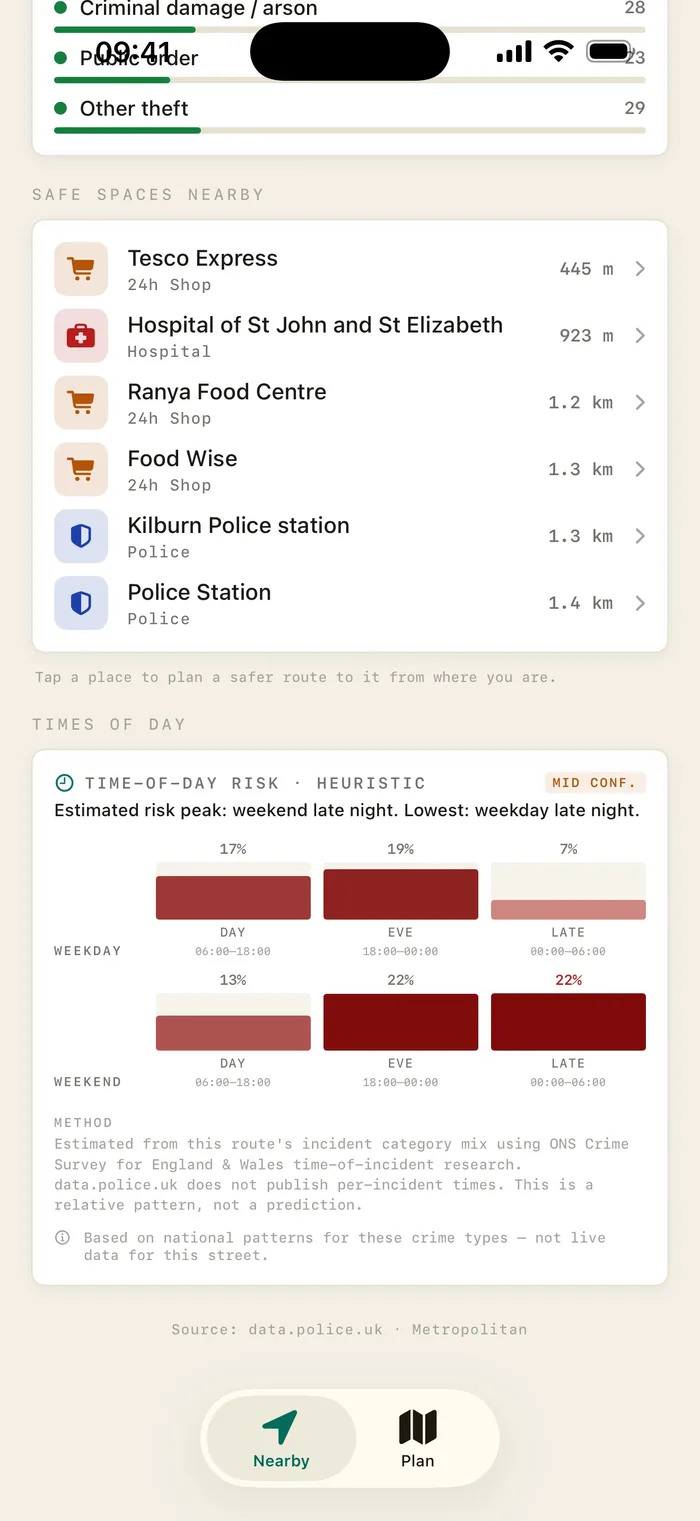
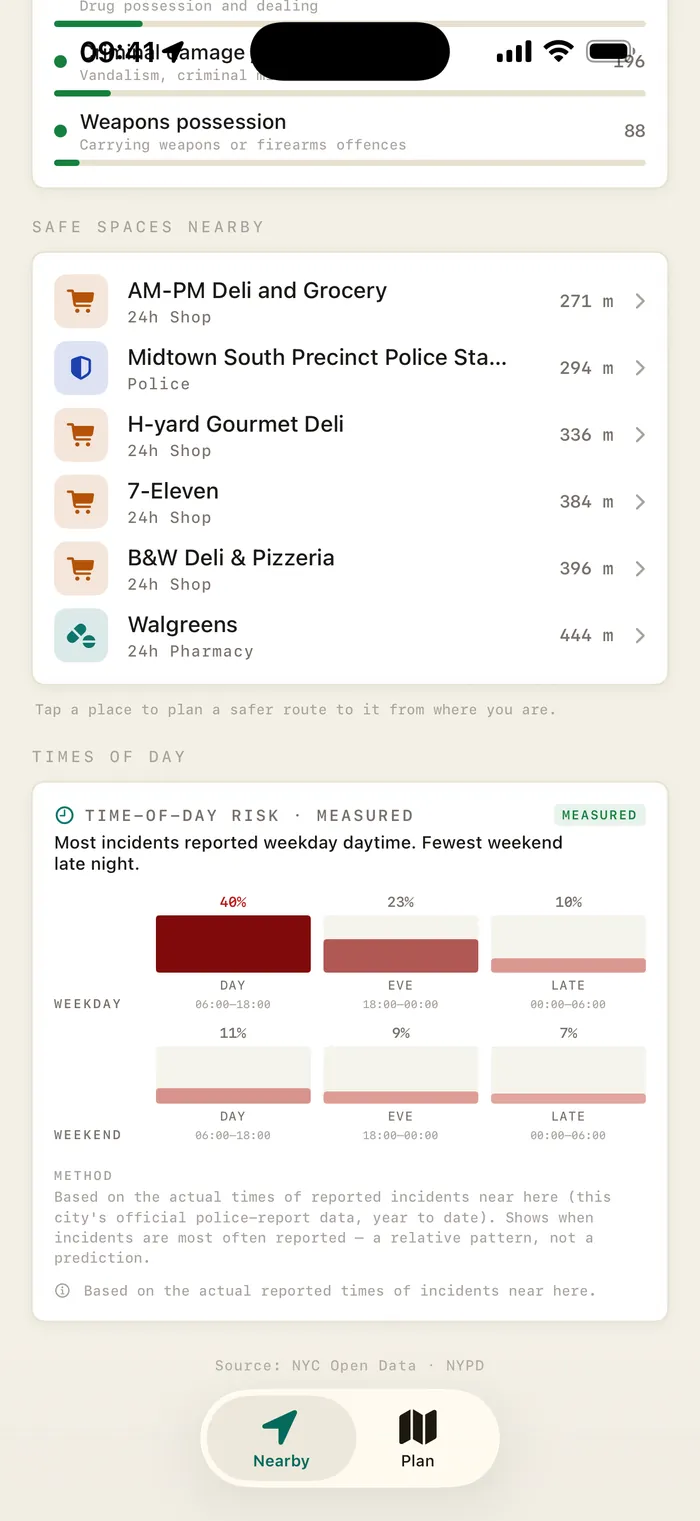
Website: refresh iPhone screenshots with current New York captures
Replaced 6 phone screenshots (scoring/hero, nearby-area, nearby-spaces, route-plain, widget-iphone, help-nearby) with fresh NYC/NYPD captures from the current build (resized to 700px webp), and updated the matching alt text + figcaptions (LONDON->NEW YORK, 41/100->15/100, 6,997->9,345 incidents). iPad/Watch/share/strut-safe images are unchanged (no new captures).

Changed region(s): [[0.03, 0.0, 0.96, 0.8961], [0.93, 0.4944, 0.96, 0.5253], [0.9, 0.2163, 0.93, 0.2472]]

diff --git a/index.html b/index.html
@@ -432,8 +432,8 @@
 
       <div class="hero-fig reveal" style="--i:3">
         <figure class="figure">
-          <img src="assets/scoring.webp" alt="SafeRoute showing a scored walking route from Maida Vale to Soho over a live crime heatmap, with a 41 out of 100 safety score and crime breakdown" width="700" height="1521" fetchpriority="high">
-          <figcaption class="figcap"><span>FIG.01 — SCORED ROUTE</span><span>LONDON</span></figcaption>
+          <img src="assets/scoring.webp" alt="SafeRoute showing a recommended walking route in New York scored 15 out of 100 for safety over a live crime heatmap, with a crime category breakdown and how well-lit it is" width="700" height="1521" fetchpriority="high">
+          <figcaption class="figcap"><span>FIG.01 — SCORED ROUTE</span><span>NEW YORK</span></figcaption>
         </figure>
       </div>
     </div>
@@ -467,11 +467,11 @@
       <div class="feat-media reveal">
         <div class="duo">
           <figure class="figure">
-            <img src="assets/nearby-area.webp" alt="SafeRoute Nearby tab showing a 30 out of 100 area safety score for the City of Westminster, a crime heatmap and what's reported nearby" loading="lazy" width="700" height="1521">
+            <img src="assets/nearby-area.webp" alt="SafeRoute Nearby tab showing a 16 out of 100 area safety score for Columbus Ave in New York, a crime heatmap and what's reported nearby" loading="lazy" width="700" height="1521">
             <figcaption class="figcap"><span>NEARBY — AREA</span></figcaption>
           </figure>
           <figure class="figure">
-            <img src="assets/nearby-spaces.webp" alt="SafeRoute Nearby tab showing safe spaces nearby — 24-hour shops, a hospital and police stations — with a time-of-day risk chart" loading="lazy" width="700" height="1521">
+            <img src="assets/nearby-spaces.webp" alt="SafeRoute Nearby tab showing safe spaces nearby — 24-hour delis, a pharmacy and a police precinct in New York — with a time-of-day risk chart" loading="lazy" width="700" height="1521">
             <figcaption class="figcap"><span>NEARBY — SAFE SPACES</span></figcaption>
           </figure>
         </div>
@@ -553,8 +553,8 @@
     <div class="feat">
       <div class="feat-media reveal">
         <figure class="figure">
-          <img src="assets/scoring.webp" alt="SafeRoute recommended route showing a 41 out of 100 safety score, a crime category breakdown within 150m, and time-of-day risk" loading="lazy" width="700" height="1521">
-          <figcaption class="figcap"><span>FIG.02 — SAFETY SCORE</span><span>41 / 100</span></figcaption>
+          <img src="assets/scoring.webp" alt="SafeRoute recommended route in New York with a 15 out of 100 safety score, a crime category breakdown within 150 m, how well-lit the route is, and time-of-day risk" loading="lazy" width="700" height="1521">
+          <figcaption class="figcap"><span>FIG.02 — SAFETY SCORE</span><span>15 / 100</span></figcaption>
         </figure>
       </div>
       <div class="feat-body reveal">
@@ -584,8 +584,8 @@
     <div class="feat flip">
       <div class="feat-media reveal">
         <figure class="figure">
-          <img src="assets/route-plain.webp" alt="SafeRoute route planner from Maida Vale to Soho with four routes found and scored over a crime heatmap, 6,997 incidents in the area" loading="lazy" width="700" height="1521">
-          <figcaption class="figcap"><span>FIG.03 — ROUTE VIEW</span><span>6,997 INCIDENTS</span></figcaption>
+          <img src="assets/route-plain.webp" alt="SafeRoute route planner from Harlem to Columbus Ave in New York with five routes found and scored over a crime heatmap, 9,345 incidents in the area" loading="lazy" width="700" height="1521">
+          <figcaption class="figcap"><span>FIG.03 — ROUTE VIEW</span><span>9,345 INCIDENTS</span></figcaption>
         </figure>
       </div>
       <div class="feat-body reveal">
@@ -644,7 +644,7 @@
     <div class="feat flip">
       <div class="feat-media reveal">
         <figure class="figure">
-          <img src="assets/widget-iphone.webp" alt="iPhone Home Screen with the SafeRoute Area Safety widget showing an Elevated 30 out of 100 score and 466 incidents within 1 km" loading="lazy" width="700" height="1521">
+          <img src="assets/widget-iphone.webp" alt="iPhone Home Screen with the SafeRoute Area Safety widget showing a High risk 17 out of 100 score and 3,707 incidents within 1 km from NYPD data" loading="lazy" width="700" height="1521">
           <figcaption class="figcap"><span>FIG.07 — AREA SAFETY WIDGET</span><span>HOME SCREEN</span></figcaption>
         </figure>
       </div>
@@ -710,7 +710,7 @@
       <div class="feat-media reveal">
         <div class="duo">
           <figure class="figure">
-            <img src="assets/help-nearby.webp" alt="SafeRoute Find Help Nearby sheet listing the closest 24-hour places" loading="lazy" width="700" height="1522">
+            <img src="assets/help-nearby.webp" alt="SafeRoute Find Help Nearby sheet listing the closest 24-hour places in New York, with one-tap Call 911" loading="lazy" width="700" height="1522">
             <figcaption class="figcap"><span>FIG.05 — FIND HELP</span></figcaption>
           </figure>
           <figure class="figure">
